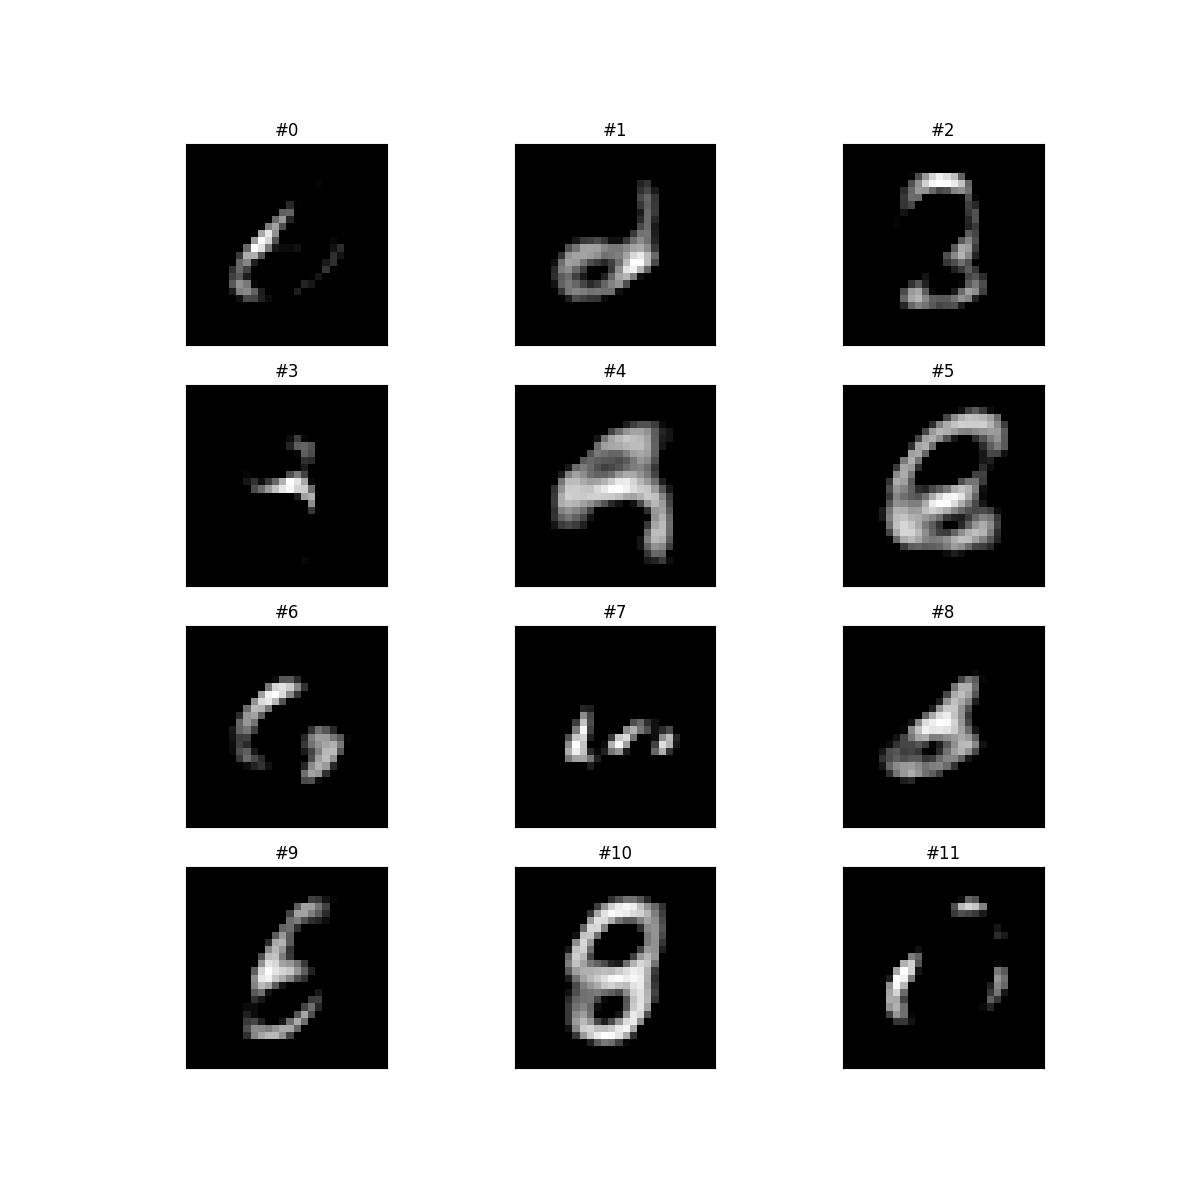
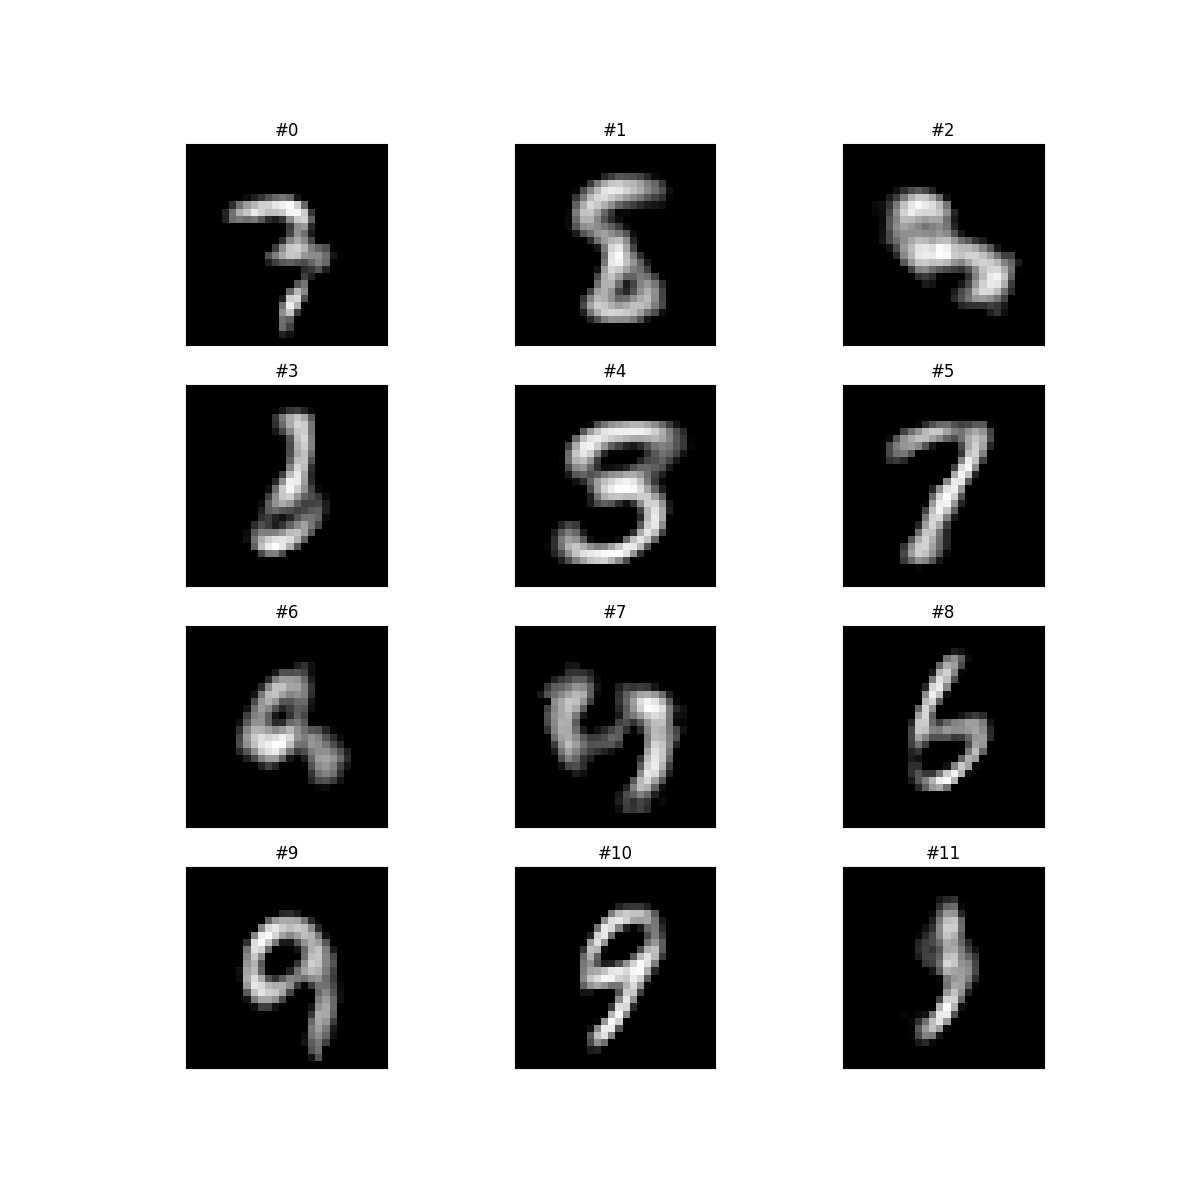
Increase complexity of autoencoder and retrain generative model

diff --git a/mnist_autoencoder.py b/mnist_autoencoder.py
@@ -38,15 +38,21 @@ def get_model(skip=True):
     model.add(Dense(10, activation='relu'))
     model.add(Dense(1000, activation='relu', input_shape=(-1, 10, 1, 1)))
     model.add(Dropout(rate=0.5))
+    model.add(Dense(1000, activation='relu'))
+    model.add(Dropout(rate=0.5))
     model.add(Dense(x_train.shape[1] * x_train.shape[2], activation='relu'))
 
     model.compile(loss=keras.losses.mean_squared_error,
                   optimizer=keras.optimizers.Adam(),
                   metrics=['accuracy'])
 
-    if os.path.exists('model/autoencoder.hdf'):
-        print('Model exists, loading...')
-        model.load_weights('model/autoencoder.hdf')
+    if (os.path.exists('model/autoencoder.hdf')) and (skip):
+        try:
+            print('Model exists, loading...')
+            model.load_weights('model/autoencoder.hdf')
+        except ValueError:
+            print(Warning("Model does not match, retraining..."))
+            skip=False
     else:
         skip=False
 
